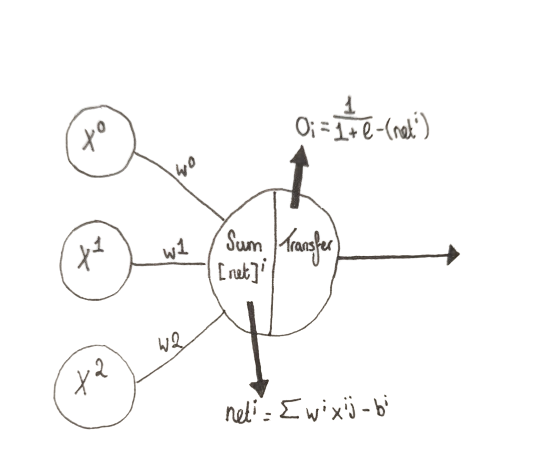
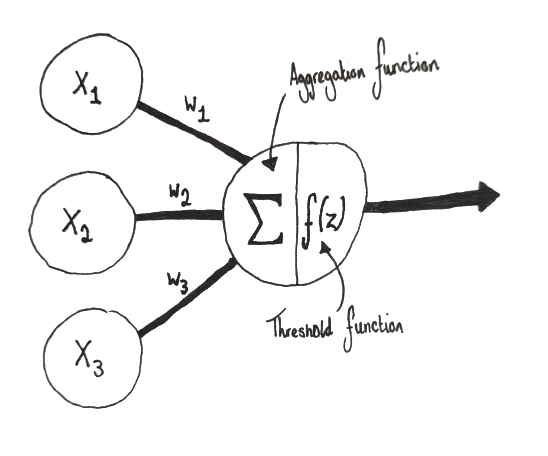
Further work on portfolio, Updated cv, changed some styles

diff --git a/HTML/neuralNet.html b/HTML/neuralNet.html
@@ -23,7 +23,7 @@
 
         <main>
             <h1> Neural Networks</h1>
-            <h3 id="caption" class ="line">What are they? what do they do? and how do they do it?</h3>
+            <h3 id="caption" class ="line">What are they? What do they do? How do they do it?</h3>
             <img src="..\Images\Neuron.png" alt="Neuron" id="topimg">
             <img src="..\Images\Perceptron.png" alt="Perceptron" id="topimg">
             <div class="row">
@@ -31,14 +31,24 @@
                     <p id="caption">Neuron Diagram</p>
                     <h2>Introduction</h2>
                     <p> 
-                        I am going to explore Neural Networks they were curated and why followed by building my very first neural network using python, i intend to collate all the knowlege i gather on the way here. i want to know what they are, how they work and why they are so useful in the modern day technological era.
+                        I am going to explore Neural Networks they were curated and why. Followed by building my very first neural network using python, i intend to collate all the knowlege i gather on the way here. i want to know what they are, how they work and why they are so useful in the modern day technological era.
                     </p>
                     <h2>The Neuron and Perceptron</h2>
                     <p> 
                         A neural network is a recreation of a animals nervous system within a computer attempting to imitate brain functionality,
-                        it consists of "perceptrons" which are a inspired by neurons, within an animal a neuron transmits electrical signals across the body both to and from the brain. The perceptron was first theorised in 1943 by Warren McCulloch and Walter Pitts, followed by the first version built on a computer by Frank Rosenblatt in 1957 which was very similar to neurons as they were presented by Nobel Prize laureate Cajal whom was the very first person to have evidence that neurons are seperate showing there are multiple neurons congregated together, each working independantly using signals from eachother.
+                        it consists of "perceptrons" which are a inspired by neurons, within an animal a neuron transmits electrical signals across the body both to and from the brain. The perceptron was first theorised in 1943 by Warren McCulloch and Walter Pitts, followed by the first version built on a computer by Frank Rosenblatt in 1957. 
                         <br> <br>
-                        A perceptron as introduced by Frank Rosenblatt was originally intended to be a machine, funded by the us navy and was able to detect different shapes, thus computer vision was born
+                        A perceptron as introduced by Frank Rosenblatt was originally intended to be a machine, funded by the US Navy and Air Force simply worked on binary inputs (1s or 0s) that were multiplied by a static weight 0 through 1 (0, 0.1, ..., 1) that was set based on the importance of that input. In a real life example say you want to go to the beach and you have a few factors that affect wether you will acctually go or not e.g. if its sunny, if its low tide or if the beach is quiet. If its sunny is quite important so you would give its connection a high weight say 0.7 and if its a low tide is still important but not so much lets say 0.5 and if its quiet gets 0.3 because it doesnt really matter.
+                    </p>
+                    <img src="..\Images\Original perceptron.png" alt="Original Perceptron">
+                    <p>
+                        Each perceptron would have an activation value/ threshhold and if the summation of the inputs multiplied by their respected weights would surpass that number the perceptron would activate.
+                        <br> <br>
+                        Over time the perceptron evolved and a representation of that can be seen at the top of this paper in the perceptron diagram, Firstly using a aggregation function summing all inputs multiplied by their weight together then adding a bias this is shown as:
+                    </p>
+                    <img src="..\Images\summation of inputs.png" alt="Sum" id = sum>
+                    <p>
+                        The result of that summation is then passed into a activation function. this allows the neuron to classify the data more dynamically, There are many different types of activation function that you can use from the step function to ReLU each have their own strengths and weaknesses.
                     </p>
                  </div>
                 <div class="column">

diff --git a/HTML/cv.html b/HTML/cv.html
@@ -50,38 +50,39 @@
                 <h2>Education</h2>
 
                 <h3>Sept 2022 - Present | Newcastle University </h3>
-                <p>
+                <p id="unip">
                     Studying computer science BSC at Newcastle has developed me tremendously over a three year period 
                     both my interpersonal skills through completing multiple group projects aswell as my knowlege in computing. 
-                    i also was able to delve into multiple topics across computer science and
+                    I also was able to delve into multiple topics across computer science allowing me to find the areas of computing that interest me the most
                 </p>
-
+                <img src="..\Images\Newcastle University.png" alt="" id="uni">
                 <h3>June 2024 - Aug 2024 | Hong Kong University Of Science And Technology </h3>
-                <p>
-                    As part of a summer exchange program, Studying Astrophysics and Astronomy alongside carrying out personal projects and research  
+                <p id="unip">
+                    As part of a summer exchange program, Studying Astrophysics and Astronomy alongside carrying out personal projects and research.
+                    This was an amazing opportunity and it allowed me experience living abroad and studying in another country. 
                 </p>
-
+                <img src="..\Images\HKUST.png" alt="" id="uni">
                 <h2><span>Experience</span></h2>
 
                 <h3>Jul 2022 - Present | The Saddle Room Resteraunt | Waiter/Bartender </h3>            
                 <p>
-                    Working as part of a large team within an organisation as a waiter and bartender  
+                    Working at the saddle room as a Waiter and Bartender was my first expirience working as part of a large team,
+                    Throughout my time 
                 </p>
 
                 <h3>May 2019 - Jul 2022 | The Sandpiper Inn | Waiter </h3>            
                 <p>
-                    My first Hospitality job as part of a Small team where i learned many valuable skills
+                    As first Hospitality job The Sandpiper Inn was an amazing place to work,
+                    I enjoyed my time there learning from great colleagues within a Small team and developing social,
+                    procedural and time managment skills.
                 </p>
                 
                 <h3>May 2018 - May 2019 | Hewsons | Paper Boy </h3>            
                 <p>
-                    Working as a paper boy delivering around my home town
+                    My very first job in my home town delivering papers before school.
+                    I learned the importance of punctuality aswell as found myself developing my communication skills at an early age talking to people of all ages.
                 </p>
             </div>
         </main>
-
-        <footer>
-            <p>&copy;2024 EW website. All rights reserved.</p>
-        </footer>
     </body>
 </html>

diff --git a/CSS/cvWideStyles.css b/CSS/cvWideStyles.css
@@ -1,23 +1,22 @@
 #block1{
-    height: 150%;
-    width: 20vw;
-    background-color: rgb(46, 46, 46);
+    height: 130vw;
+    width: 25vw;
+    background-color: rgb(19, 19, 19);
     overflow: hidden;
     display: inline-block;
     z-index: -2;
 }
 
 #block1 img{
-    width: 15vw;
+    width: 20vw;
     margin-left: 2.5vw;
     margin-top: 5vw;
-    border-radius: 30%;
-    border: 0.2vw white solid;
+    border-radius: 50%;
 }
 
 #block1 h2{
     color: white;
-    width: 20vw;
+    width: 100%;
     text-align: center;
     font-weight: 100;
     font-size: 2vw;
@@ -25,7 +24,7 @@
 
 #block1 p{
     color: white;
-    width: 20vw;
+    width: 100%;
     text-align: center;
     font-size: 1vw;
     margin-left: 1vw;
@@ -34,10 +33,10 @@
 
 #block2{
     top: 5vw;
-    left: 22vw;
+    left: 35vw;
     position: absolute;
     display: inline-block;
-    width: 70vw;
+    width: 60vw;
     z-index: -2;
 }
 
@@ -50,17 +49,32 @@
 #block2 h2{
     width: 100%;
     text-align: center;
-    font-size: 2vw;
+    font-size: 3vw;
 }
 
 #block2 h3{
-    font-size: 1.5vw;
+    font-size: 2vw;
     text-align: center;
 }
 
 #block2 p{
-    font-size: 1vw;
+    font-size: 1.5vw;
     text-align: center;
+}
+
+#block2 #unip{
+    font-size: 1.5vw;
+    width: 75%;
+    margin-right: 1vw;
+    text-align: justify;
+    display: inline-block;
+    vertical-align: middle;
+}
+
+#block2 #uni{
+    width: 20%;
+    display: inline-block;
+    vertical-align: middle;
 }
 
 #summaryText{

diff --git a/CSS/cvSlimStyles.css b/CSS/cvSlimStyles.css
@@ -8,7 +8,7 @@
 #block1{
     height: 100%;
     width: 30vw;
-    background-color: rgb(46, 46, 46);
+    background-color: rgb(19, 19, 19);
     overflow: hidden;
     display: inline-block;
     padding-top: 7vw;
@@ -17,11 +17,10 @@
 }
 
 #block1 img{
-    width: 28vw;
-    height: 25vw;
+    width: 25vw;
     margin-top: 5vw;
-    margin-left: 1vw;
-    border-radius: 30%;
+    margin-left: 2.5vw;
+    border-radius: 50%;
 }
 
 #block1 h2{
@@ -69,7 +68,24 @@
 #block2 p{
     font-size: 1vh;
     width: 100%;
+    margin-right: 1vw;
     text-align: center;
+    vertical-align: middle;
+}
+
+#block2 #unip{
+    font-size: 1vh;
+    width: 75%;
+    margin-right: 1vw;
+    text-align: justify;
+    display: inline-block;
+    vertical-align: middle;
+}
+
+#block2 #uni{
+    width: 20%;
+    display: inline-block;
+    vertical-align: middle;
 }
 
 #footer{

diff --git a/CSS/wideStyles.css b/CSS/wideStyles.css
@@ -14,6 +14,7 @@ nav{
   display: inline-block;
   position: fixed;
   border-radius: 0vw 0vw 1vw 1vw;
+  z-index: 100;
 }
 
 nav h1{
@@ -85,11 +86,13 @@ main{
 }
 
 #intro #image{
-  border-radius: 5%;
+  border-radius: 1%;
   overflow: hidden;
   position: absolute;
-  top: 52vw;
+  top: 51vw;
   left: 57vw;
+  box-shadow: 0px 0px 20px 0.5px rgb(16, 16, 16);
+  z-index: -2;
 }
 
 #intro #image img{

diff --git a/CSS/reportStyles.css b/CSS/reportStyles.css
@@ -34,6 +34,10 @@ main p{
     text-align: justify;
 }
 
+main img{
+    width: 100%;
+}
+
 #topimg{
     display: inline-block;
     width: 45vw;
@@ -47,6 +51,10 @@ main p{
     text-align: center;
     font-weight: 200;
     margin-top: 0%;
+}
+
+#sum{
+    width: 50%;
 }
 
 .line:before,
